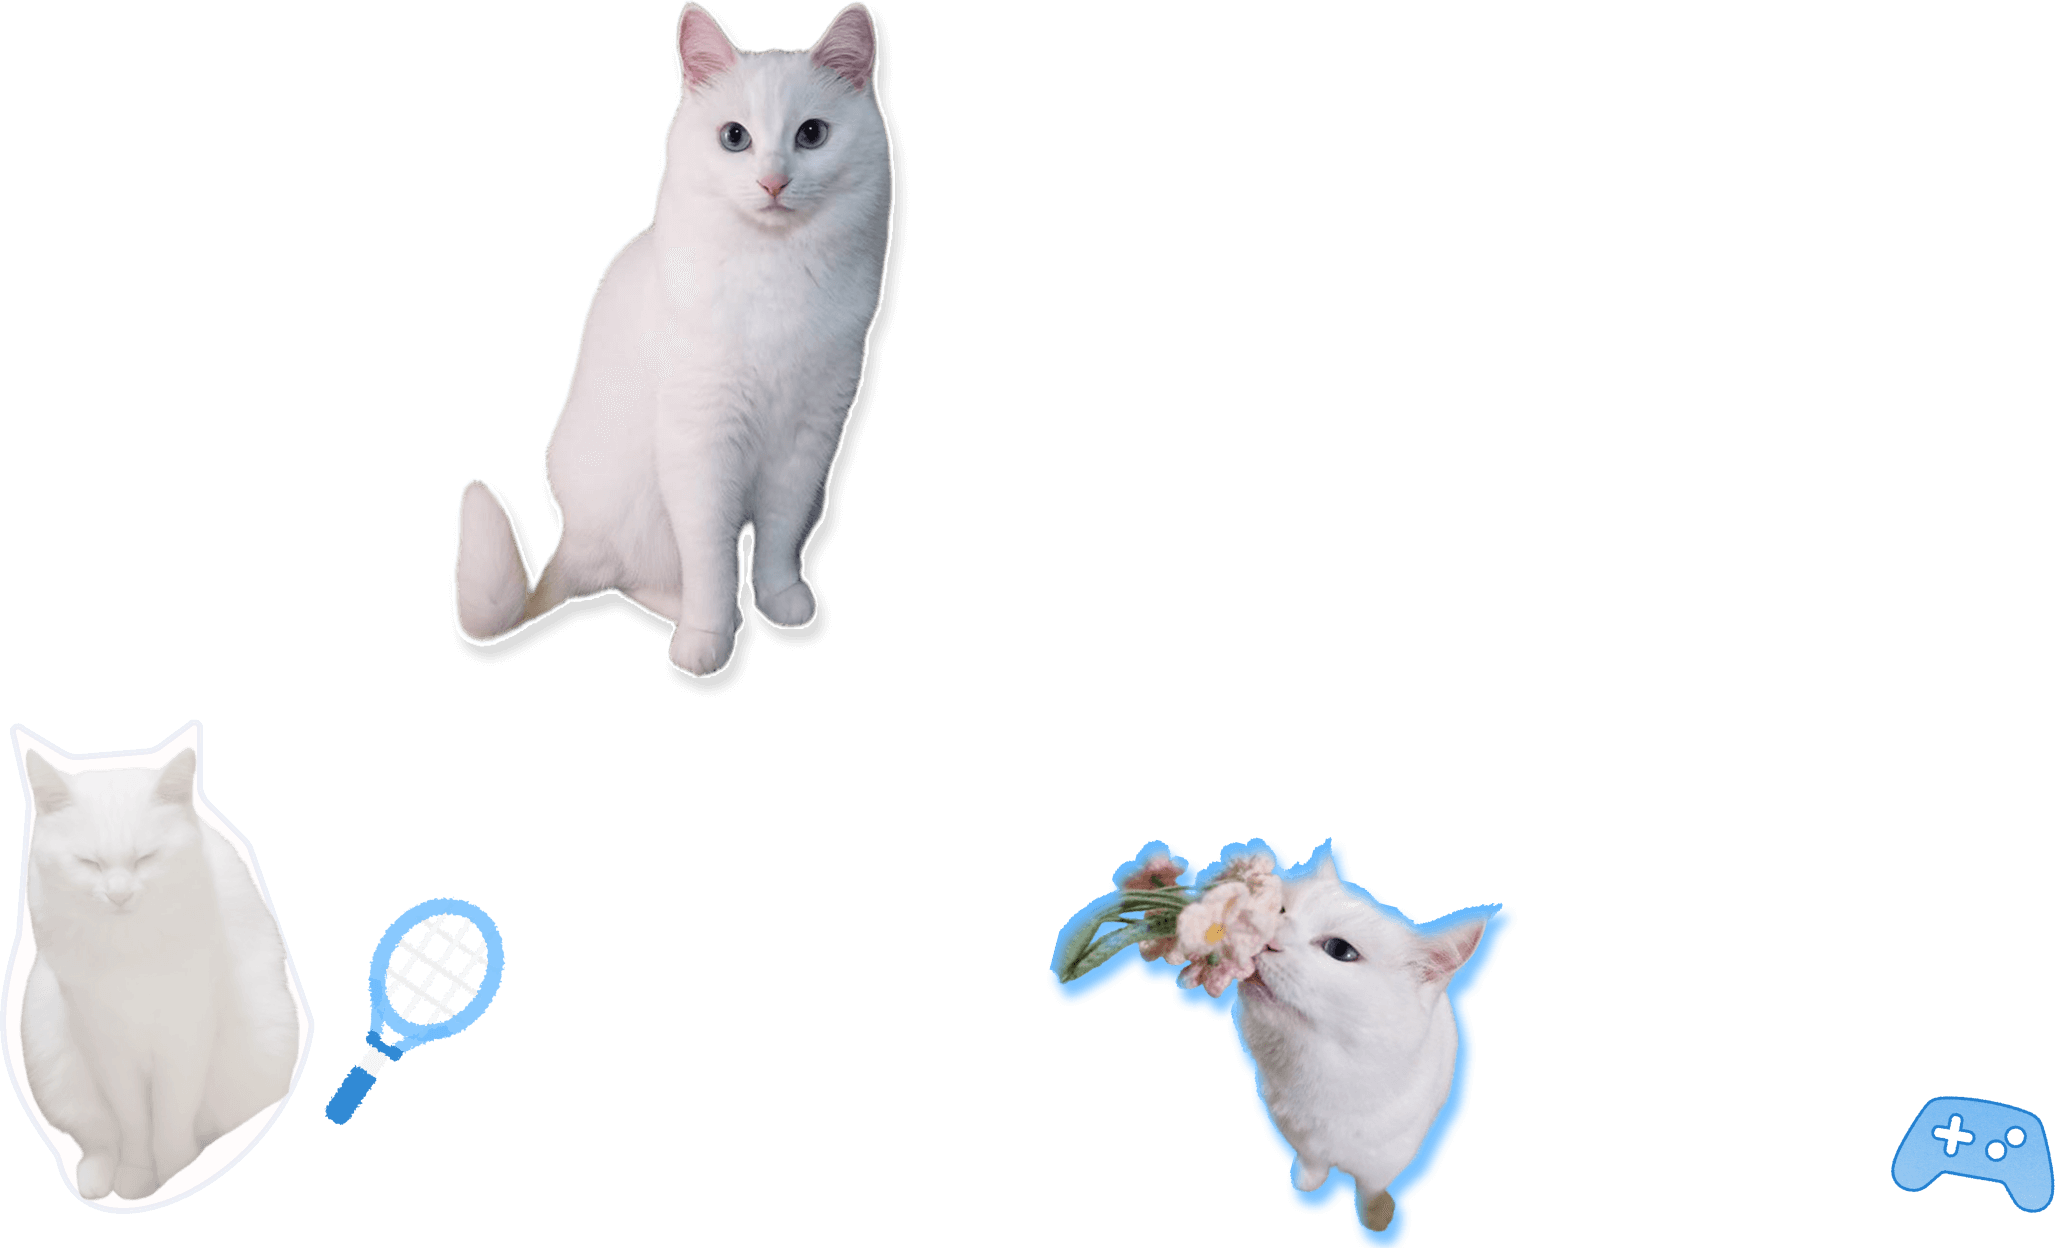
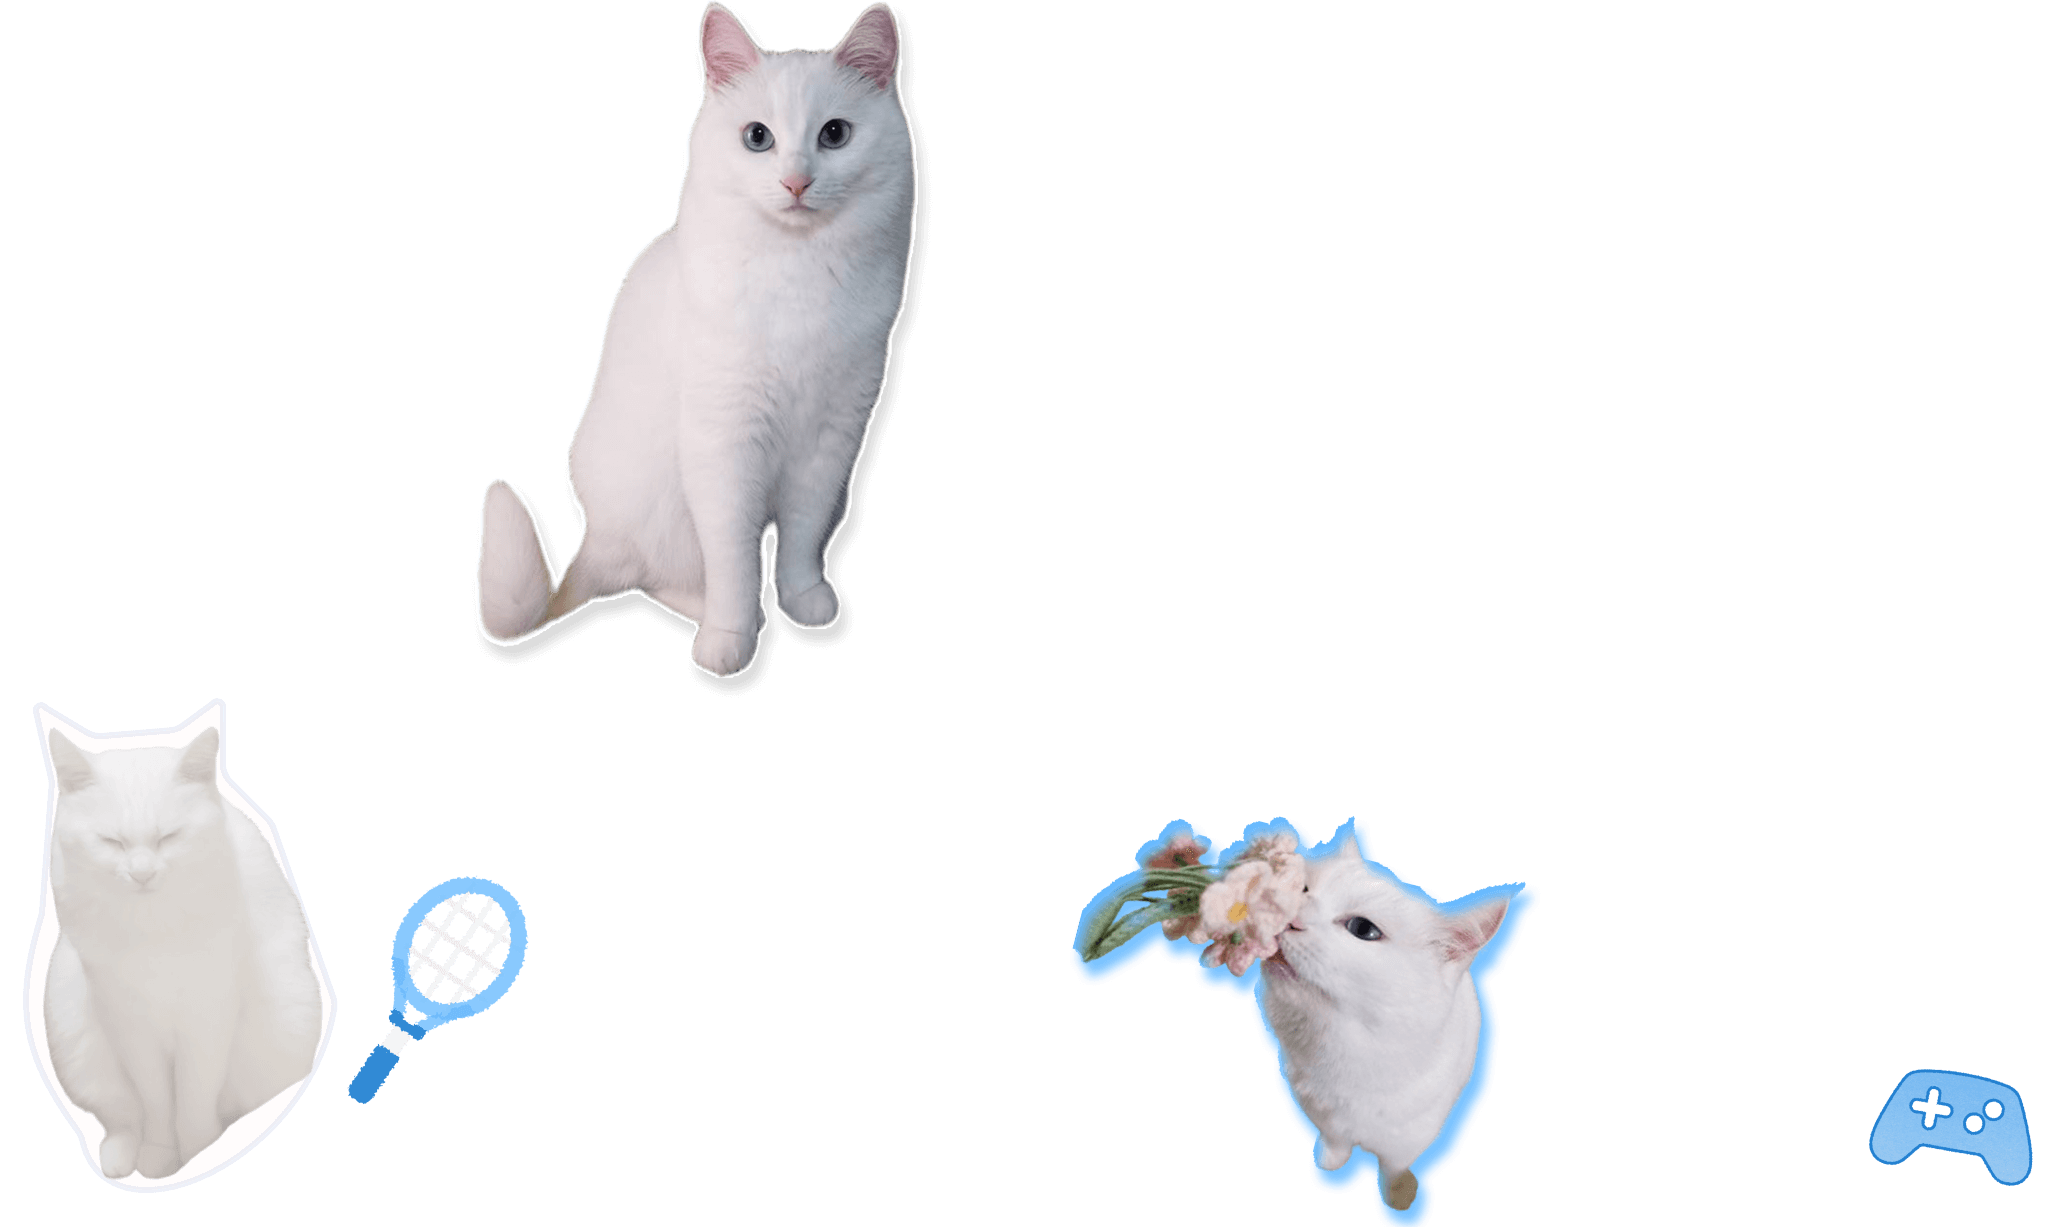
bg non transparent

diff --git a/src/components/BookScene.ts b/src/components/BookScene.ts
@@ -90,11 +90,12 @@ export class BookScene {
         pair.front.visible = isVisible;
         pair.back.visible = isVisible;
         if (!isVisible) return;
+
         const parallaxShift = totalInfluence * config.pageWidth * pair.parallaxFactor;
         pair.front.position.x = pair.offset.x + parallaxShift;
         pair.back.position.x = -pair.offset.x - parallaxShift;
 
-        const pageMatrix = this.pages[i].matrixWorld.clone();
+        // const pageMatrix = this.pages[i].matrixWorld.clone();
         // pair.front.material.clippingPlanes = pair.localClipPlanes.map((plane) => plane.clone().applyMatrix4(pageMatrix));
       });
     }
@@ -115,7 +116,7 @@ export class BookScene {
 
   private _createPage(i: number, textureLoader: THREE.TextureLoader): THREE.Group {
     const pivot = new THREE.Group();
-    const geometry = this._createRoundedBoxGeometry(config.pageWidth, config.pageHeight, config.pageDepth, 0.1, 64);
+    const geometry = this._createRoundedBoxGeometry(config.pageWidth, config.pageHeight, config.pageDepth, 0.12, 64);
 
     const frontTexture = textureLoader.load(textures.pages[i]);
     frontTexture.repeat.set(0.5, 1);
@@ -128,11 +129,11 @@ export class BookScene {
 
     const pageMesh = new THREE.Mesh(geometry, [
       new THREE.MeshBasicMaterial({ map: frontTexture, }),
-      new THREE.MeshBasicMaterial({ map: backTexture, }),
       new THREE.MeshBasicMaterial({ map: frontTexture, }),
-      new THREE.MeshBasicMaterial({ map: backTexture, }),
-      new THREE.MeshBasicMaterial({ map: frontTexture, transparent: true }),
-      new THREE.MeshBasicMaterial({ map: backTexture, transparent: true }),
+      new THREE.MeshBasicMaterial({ map: frontTexture, }),
+      new THREE.MeshBasicMaterial({ map: frontTexture, }),
+      new THREE.MeshBasicMaterial({ map: frontTexture }),
+      new THREE.MeshBasicMaterial({ map: backTexture }),
     ]);
     pageMesh.position.x = config.pageWidth / 2;
     pivot.add(pageMesh);
@@ -153,11 +154,15 @@ export class BookScene {
     const placeholderGeom = new THREE.PlaneGeometry(1, 1);
 
     decorations.forEach((decConfig) => {
+      const scale = decConfig.scale ?? 1;
+
       const texture = textureLoader.load(decConfig.texture, (tex) => {
         tex.colorSpace = THREE.SRGBColorSpace;
         const aspect = tex.image.width / tex.image.height;
-        const targetHeight = config.pageHeight * 0.75;
+
+        const targetHeight = config.pageHeight * 0.75 * scale;
         const targetWidth = targetHeight * aspect;
+
         front.geometry.dispose();
         front.geometry = new THREE.PlaneGeometry(targetWidth, targetHeight);
         back.geometry.dispose();
@@ -166,21 +171,40 @@ export class BookScene {
 
       const front = new THREE.Mesh(placeholderGeom.clone(), new THREE.MeshBasicMaterial({
         map: texture, alphaTest: 0.01, transparent: true,
-        clippingPlanes: [new THREE.Plane(new THREE.Vector3(-1, 0, 0), config.pageWidth), new THREE.Plane(new THREE.Vector3(1, 0, 0), 0)].map(p => p.clone())
+        clippingPlanes: [
+          new THREE.Plane(new THREE.Vector3(-1, 0, 0), config.pageWidth),
+          new THREE.Plane(new THREE.Vector3(1, 0, 0), 0),
+          new THREE.Plane(new THREE.Vector3(0, -1, 0), config.pageHeight / 2),
+          new THREE.Plane(new THREE.Vector3(0, 1, 0), config.pageHeight / 2)
+        ].map(p => p.clone())
       }));
-      front.position.set(-config.pageWidth, decConfig.offset.y || 0, z + decConfig.offset.z);
+      front.position.set(-config.pageWidth, decConfig.offset?.y || 0, z + (decConfig.offset?.z || 0));
 
       const back = new THREE.Mesh(placeholderGeom.clone(), new THREE.MeshBasicMaterial({
         map: texture, alphaTest: 0.01, transparent: true,
-        clippingPlanes: [new THREE.Plane(new THREE.Vector3(-1, 0, 0), 0), new THREE.Plane(new THREE.Vector3(1, 0, 0), config.pageWidth)].map(p => p.clone())
+        clippingPlanes: [
+          new THREE.Plane(new THREE.Vector3(-1, 0, 0), 0),
+          new THREE.Plane(new THREE.Vector3(1, 0, 0), config.pageWidth),
+          new THREE.Plane(new THREE.Vector3(0, -1, 0), config.pageHeight / 2),
+          new THREE.Plane(new THREE.Vector3(0, 1, 0), config.pageHeight / 2)
+        ].map(p => p.clone())
       }));
-      back.position.set(config.pageWidth, decConfig.offset.y || 0, z - decConfig.offset.z);
+      back.position.set(config.pageWidth, decConfig.offset?.y || 0, z - (decConfig.offset?.z || 0));
       back.rotation.y = Math.PI;
 
-      pairs.push({ front, back, ...decConfig, localClipPlanes: [new THREE.Plane(new THREE.Vector3(-1, 0, 0), config.pageWidth), new THREE.Plane(new THREE.Vector3(1, 0, 0), 0)] });
+      pairs.push({
+        front,
+        back,
+        ...decConfig,
+        localClipPlanes: [
+          new THREE.Plane(new THREE.Vector3(-1, 0, 0), config.pageWidth),
+          new THREE.Plane(new THREE.Vector3(1, 0, 0), 0)
+        ]
+      });
     });
     return pairs;
   }
+
 
   private _createRoundedBoxGeometry(width: number, height: number, depth: number, radius: number, segments: number): THREE.BoxGeometry {
     const geometry = new THREE.BoxGeometry(width, height, depth, segments, segments, segments);

diff --git a/src/components/config.ts b/src/components/config.ts
@@ -21,12 +21,12 @@ export const textures = {
   decorations: [
     [],
     [
-      { texture: '/imgs/dec-meidi1.png', parallaxFactor: 0.35, offset: { x: 3.2, y: -0.2, z: 0.016 } },
-      { texture: '/imgs/dec-meidi2.png', parallaxFactor: 0.25, offset: { x: 1.4, y: -0.35, z: 0.014 } },
+      { texture: '/imgs/dec-meidi1.png', parallaxFactor: 0.35, offset: { x: 3.2, y: -0.12, z: 0.016 }, scale: 1.2 },
+      { texture: '/imgs/dec-meidi2.png', parallaxFactor: 0.20, offset: { x: 0.9, y: -0.35, z: 0.014 }},
     ],
     [
-      { texture: '/imgs/dec-jojo1.png', parallaxFactor: 0.35, offset: { x: 2.74, y: -0.36, z: 0.014 } },
-      { texture: '/imgs/dec-jojo2.png', parallaxFactor: 0.2, offset: { x: 1.5, y: -0.25, z: 0.016 } },
+      { texture: '/imgs/dec-jojo1.png', parallaxFactor: 0.35, offset: { x: 2.73, y: -0.36, z: 0.014 } },
+      { texture: '/imgs/dec-jojo2.png', parallaxFactor: 0.2, offset: { x: 1.5, y: -0.2, z: 0.016 },scale:1.15 },
     ],
     [
       { texture: '/imgs/dec-meidi1.png', parallaxFactor: 0.35, offset: { x: 3.2, y: -0.2, z: 0.016 } },
